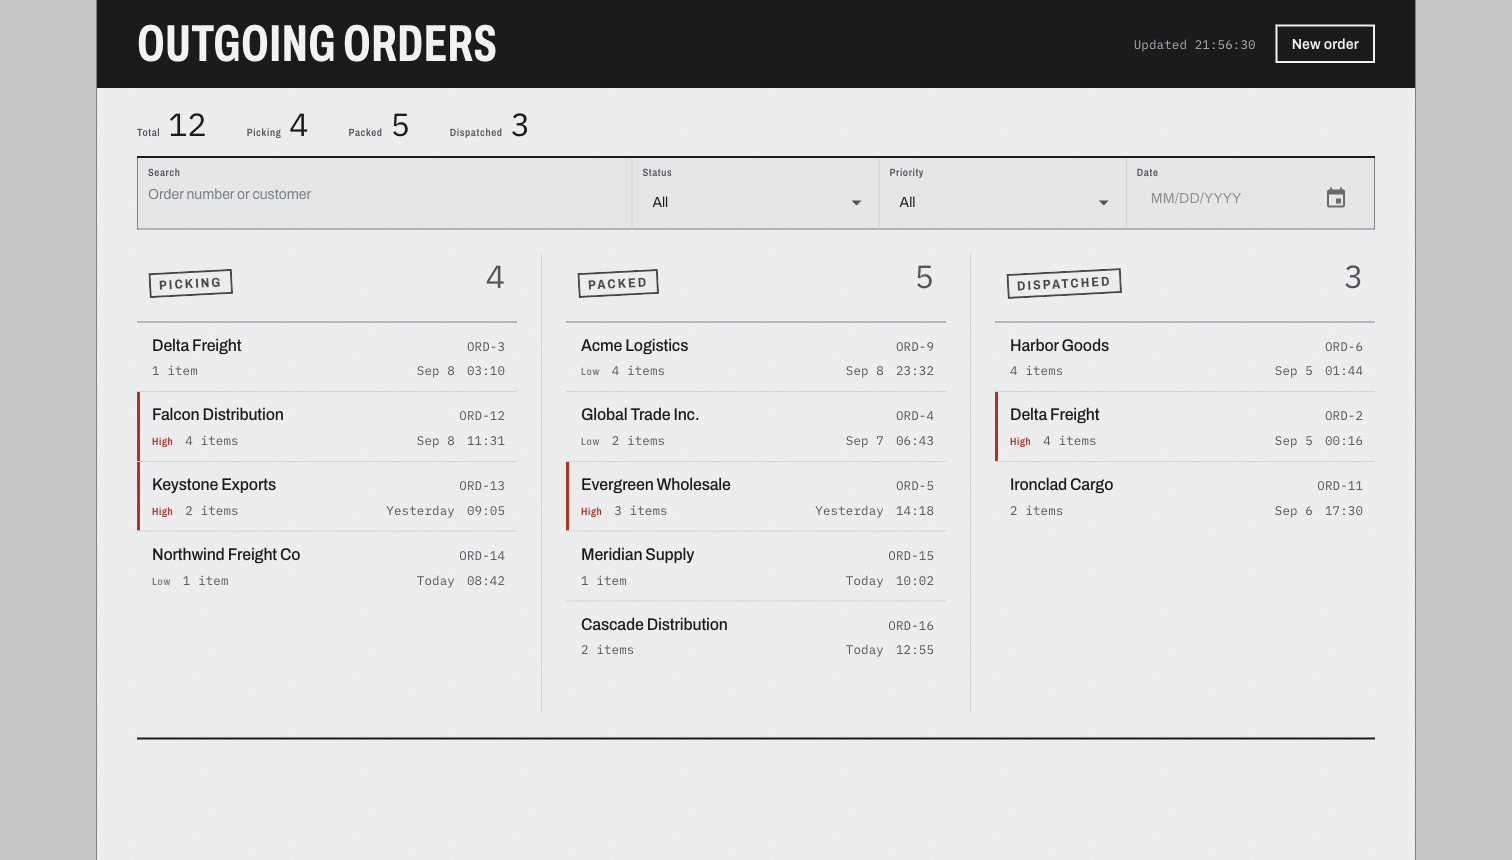
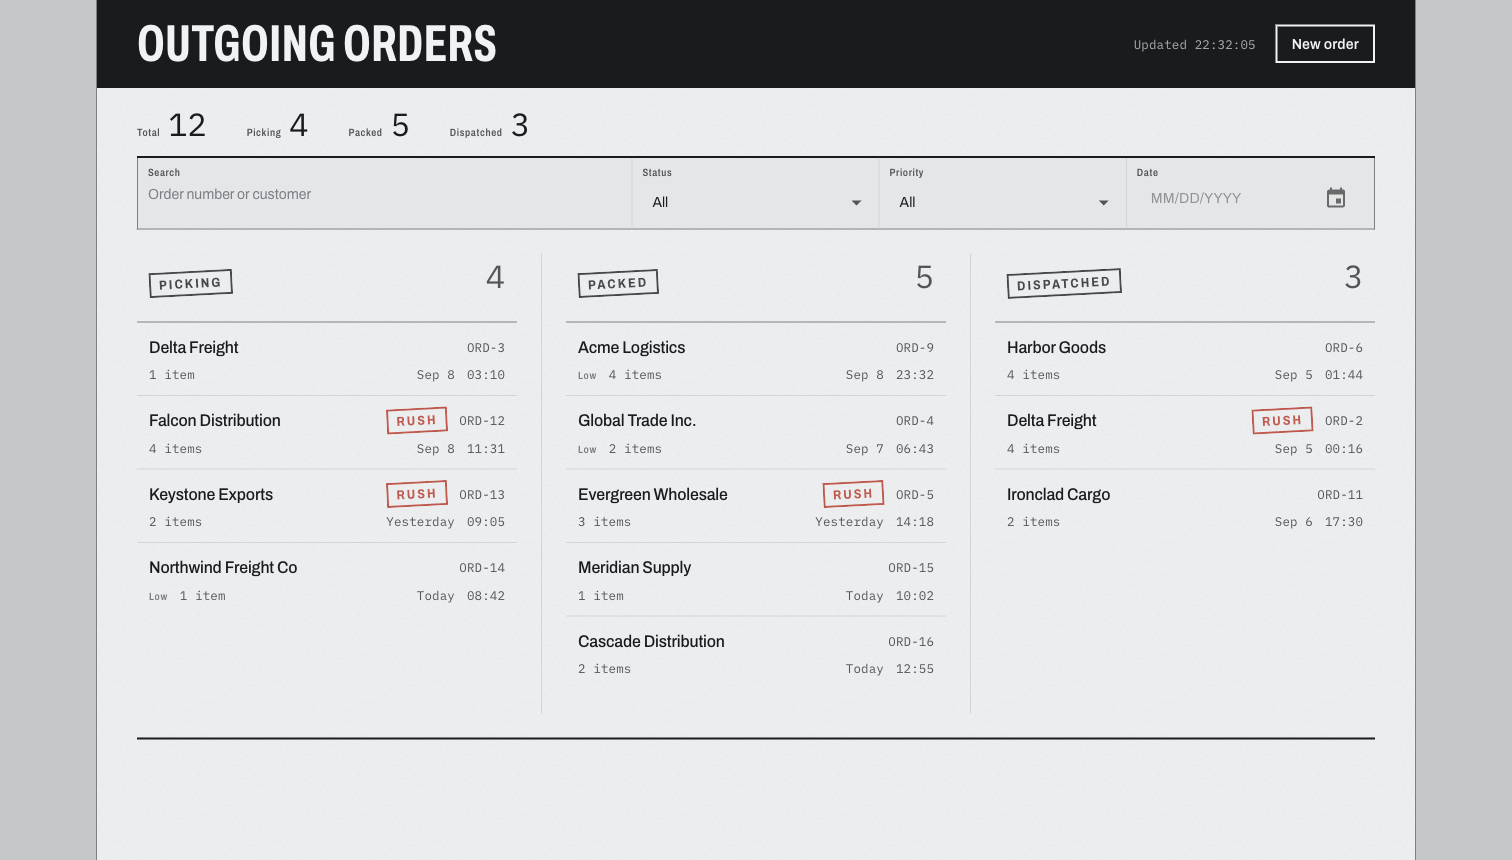
rush stamp for high priority orders

diff --git a/src/components/Board/BoardEntry.tsx b/src/components/Board/BoardEntry.tsx
@@ -4,6 +4,7 @@ import { formatOrderStamp, pluralize } from '../../app/utils';
 import { ORDER_PRIORITIES } from '../../app/constants';
 import { useAppSelector } from '../../app/hooks';
 import { colors } from '../../app/theme';
+import Stamp from '../common/Stamp';
 import type { OutgoingOrderInterface } from '../../app/types';
 
 interface BoardEntryProps {
@@ -16,6 +17,10 @@ interface BoardEntryProps {
  * No border, no fill, no radius — an entry is separated from its neighbours by a
  * rule, the way rows on a form are. Status isn't shown: the column already says
  * it, and repeating it on every line is what made the old cards so noisy.
+ *
+ * High priority is stamped rather than barred. An accent rule down the left edge
+ * is the same decorative device this redesign set out to remove, and expedited
+ * freight really does get stamped, so the mark earns its place.
  */
 const BoardEntry = ({ order }: BoardEntryProps) => {
     const navigate = useNavigate();
@@ -36,9 +41,6 @@ const BoardEntry = ({ order }: BoardEntryProps) => {
                 font: 'inherit',
                 color: 'inherit',
                 border: 'none',
-                // A high-priority line is flagged in the margin, the way someone
-                // would mark up a printed sheet. It is the only color on the board.
-                borderLeft: `3px solid ${isHigh ? colors.stamp : 'transparent'}`,
                 // A raw <button> keeps the UA's radius; CssBaseline doesn't reset it.
                 borderRadius: 0,
                 backgroundColor: 'transparent',
@@ -50,13 +52,25 @@ const BoardEntry = ({ order }: BoardEntryProps) => {
                 ...(recentChange && { animation: 'markFade 2500ms ease-out both' }),
             }}
         >
-            <Box sx={{ display: 'flex', alignItems: 'baseline', justifyContent: 'space-between', gap: 1.5 }}>
+            {/* minHeight keeps stamped and unstamped rows on the same rhythm. */}
+            <Box
+                sx={{
+                    display: 'flex',
+                    alignItems: 'center',
+                    justifyContent: 'space-between',
+                    gap: 1.5,
+                    minHeight: 25,
+                }}
+            >
                 <Typography variant='entry' sx={{ minWidth: 0, overflowWrap: 'anywhere' }}>
                     {order.customer}
                 </Typography>
-                <Typography variant='data' sx={{ color: 'text.secondary', flexShrink: 0 }}>
-                    ORD-{order.id}
-                </Typography>
+                <Box sx={{ display: 'flex', alignItems: 'center', gap: 1.5, flexShrink: 0 }}>
+                    {isHigh && <Stamp label='Rush' tone='stamp' />}
+                    <Typography variant='data' sx={{ color: 'text.secondary' }}>
+                        ORD-{order.id}
+                    </Typography>
+                </Box>
             </Box>
 
             <Box
@@ -69,11 +83,6 @@ const BoardEntry = ({ order }: BoardEntryProps) => {
                 }}
             >
                 <Box sx={{ display: 'flex', alignItems: 'baseline', gap: 1.5, minWidth: 0 }}>
-                    {isHigh && (
-                        <Typography variant='label' sx={{ color: colors.stamp, flexShrink: 0 }}>
-                            High
-                        </Typography>
-                    )}
                     {isLow && (
                         <Typography variant='label' sx={{ color: colors.inkFaint, flexShrink: 0 }}>
                             Low

diff --git a/src/components/OutgoingOrderDetails/OutgoingOrderDetails.tsx b/src/components/OutgoingOrderDetails/OutgoingOrderDetails.tsx
@@ -86,13 +86,15 @@ const OutgoingOrderDetails = () => {
                     </Box>
 
                     <Box sx={{ display: 'flex', flexDirection: 'column', alignItems: 'flex-start', gap: 4 }}>
-                        <Stamp
-                            label={order.status}
-                            tone='stamp'
-                            size='lg'
-                            animate={justChangedStatus}
-                            sx={{ mt: { sm: 1 } }}
-                        />
+                        <Box sx={{ display: 'flex', alignItems: 'center', gap: 2, mt: { sm: 1 } }}>
+                            {isHighPriority && <Stamp label='Rush' tone='stamp' />}
+                            <Stamp
+                                label={order.status}
+                                tone='stamp'
+                                size='lg'
+                                animate={justChangedStatus}
+                            />
+                        </Box>
                         <Box sx={{ display: 'flex', gap: 1, flexWrap: 'wrap' }}>
                             <Button variant='outlined' onClick={() => setIsEditFormOpen(true)}>
                                 Edit

diff --git a/README.md b/README.md
@@ -1,5 +1,5 @@
 <img width="1512" height="860" alt="Live dispatch board showing orders across picking, packed and dispatched columns" src="/docs/screenshots/wms-01.png" />
-<img width="1512" height="860" alt="Order detail sheet with status stamp, progress ledger and packing list" src="/docs/screenshots/wms-02.png" />
+<img width="1512" height="860" alt="Order detail sheet with rush and status stamps, progress ledger and packing list" src="/docs/screenshots/wms-02.png" />
 
 # Outgoing Orders — Frontend
 
